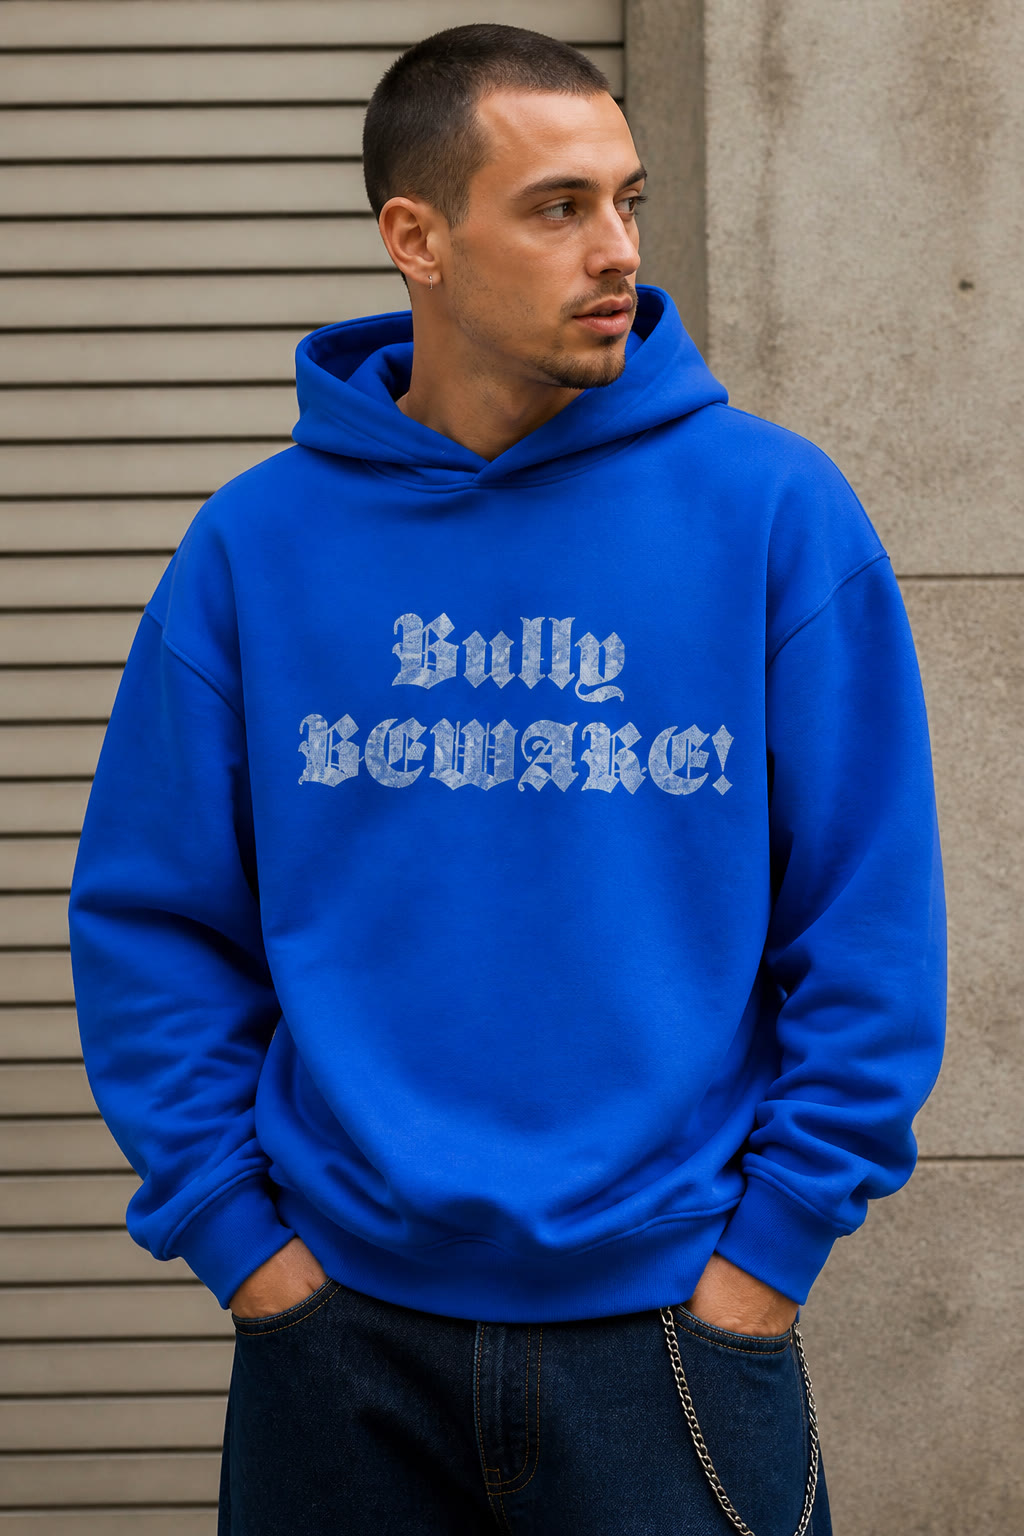
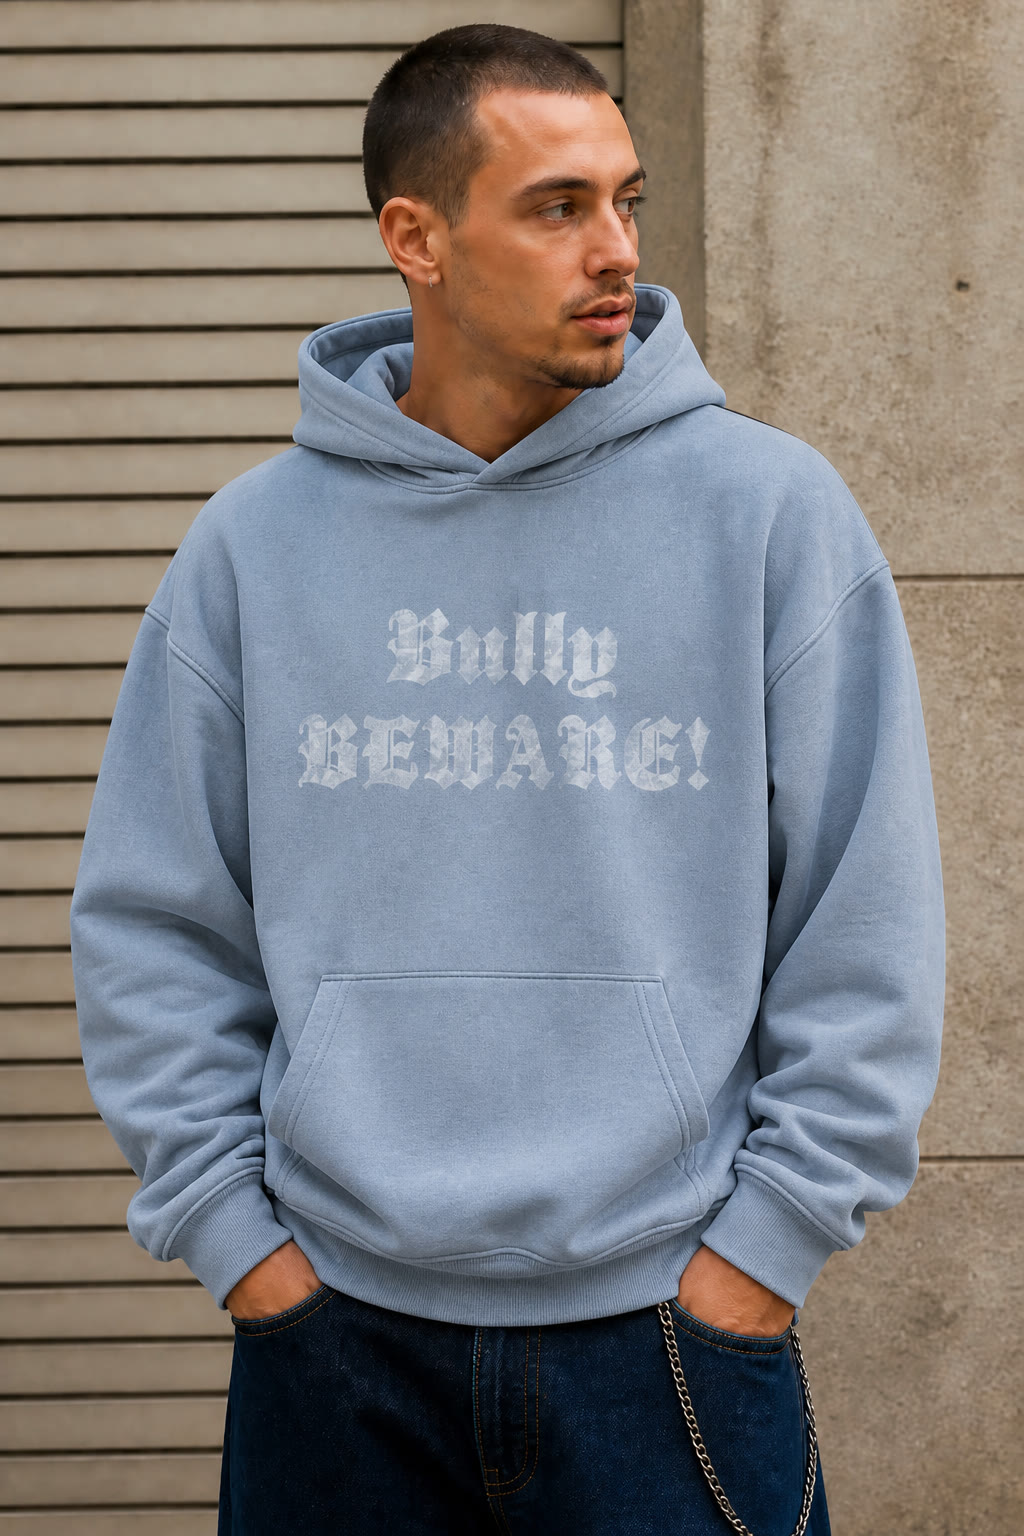
Recolor blue to dust blue and add pink colorways
All five pieces now wear a muted steel blue matched to the
swatch, plus a dusty pink with the same Beware print and Mark
embroidery.

diff --git a/js/site-config.js b/js/site-config.js
@@ -8,7 +8,8 @@
 (function () {
   const COLORWAYS = [
     { name: 'Beige', slug: 'beige', hex: '#d4c4a8' },
-    { name: 'Electric Blue', slug: 'electric-blue', hex: '#1560ff' },
+    { name: 'Dust Blue', slug: 'electric-blue', hex: '#9bb1c9' },
+    { name: 'Pink', slug: 'pink', hex: '#e5b3c5' },
     { name: 'Black', slug: 'black', hex: '#111111' },
     { name: 'Army Green', slug: 'army-green', hex: '#4a5d23' }
   ];
@@ -51,7 +52,7 @@
       body: [
         'The Beware line is loud on purpose: Old English type on the chest — “Bully BEWARE!” — and “Never-mind the dog, beware the owner” on the back of the hood.',
         'The Mark line is the other temperature: a small embroidered exotic bulldog on the left chest, no slogan. Same stance. Quieter.',
-        'Every piece runs in four colorways — beige, electric blue, black, and army green — cut oversized. Checkout is not live yet; join the list if you want a size.'
+        'Every piece runs in five colorways — beige, dust blue, pink, black, and army green — cut oversized. Checkout is not live yet; join the list if you want a size.'
       ],
       image: worn('mark-tee', 'beige'),
       fit: 'cover'
@@ -60,17 +61,17 @@
       {
         id: 'graphic',
         name: 'Beware',
-        tagline: 'Gothic print. Four colorways.'
+        tagline: 'Gothic print. Five colorways.'
       },
       {
         id: 'mark',
         name: 'The Mark',
-        tagline: 'Small embroidered bully. Four colorways.'
+        tagline: 'Small embroidered bully. Five colorways.'
       },
       {
         id: 'accessories',
         name: 'Accessories',
-        tagline: 'The mark, off the chest. Four colorways.'
+        tagline: 'The mark, off the chest. Five colorways.'
       }
     ],
     products: [
@@ -81,7 +82,7 @@
         price: 128,
         sizes: ['S', 'M', 'L', 'XL', 'XXL'],
         colors: wornColors('beware-hood'),
-        description: 'Oversized heavyweight pullover. Front: “Bully BEWARE!” in distressed blackletter. Back: “Never-mind the dog, beware the owner.” Drop shoulder, thick hood, rib that holds. Beige, electric blue, black, army green.',
+        description: 'Oversized heavyweight pullover. Front: “Bully BEWARE!” in distressed blackletter. Back: “Never-mind the dog, beware the owner.” Drop shoulder, thick hood, rib that holds. Beige, dust blue, pink, black, army green.',
         image: worn('beware-hood', 'black'),
         fit: 'cover',
         featured: true
@@ -93,7 +94,7 @@
         price: 54,
         sizes: ['S', 'M', 'L', 'XL', 'XXL'],
         colors: wornColors('beware-tee'),
-        description: 'Heavyweight oversized tee with the same chest print as the hood — “Bully BEWARE!” in distressed gothic type. Beige, electric blue, black, army green.',
+        description: 'Heavyweight oversized tee with the same chest print as the hood — “Bully BEWARE!” in distressed gothic type. Beige, dust blue, pink, black, army green.',
         image: worn('beware-tee', 'electric-blue'),
         fit: 'cover',
         featured: true
@@ -105,7 +106,7 @@
         price: 54,
         sizes: ['S', 'M', 'L', 'XL', 'XXL'],
         colors: wornColors('mark-tee'),
-        description: 'Heavyweight crew. Small embroidered exotic bulldog on the left chest. No slogan. The quiet half of the drop. Beige, electric blue, black, army green.',
+        description: 'Heavyweight crew. Small embroidered exotic bulldog on the left chest. No slogan. The quiet half of the drop. Beige, dust blue, pink, black, army green.',
         image: worn('mark-tee', 'beige'),
         fit: 'cover',
         featured: true
@@ -117,7 +118,7 @@
         price: 118,
         sizes: ['S', 'M', 'L', 'XL', 'XXL'],
         colors: wornColors('mark-hood'),
-        description: 'Oversized hoodie. No chest slogan — just the embroidered mark on the left. Beige, electric blue, and black are long sleeve; army green is short sleeve.',
+        description: 'Oversized hoodie. No chest slogan — just the embroidered mark on the left. Beige, dust blue, pink, and black are long sleeve; army green is short sleeve.',
         image: worn('mark-hood', 'army-green'),
         fit: 'cover',
         featured: true
@@ -129,7 +130,7 @@
         price: 38,
         sizes: ['One size'],
         colors: wornColors('mark-cap'),
-        description: 'Structured cap. Embroidered exotic bulldog on the front panel. Beige, electric blue, black, army green.',
+        description: 'Structured cap. Embroidered exotic bulldog on the front panel. Beige, dust blue, pink, black, army green.',
         image: worn('mark-cap', 'black'),
         fit: 'cover',
         featured: false
@@ -146,7 +147,7 @@
       hours: 'Drop inquiries answered within two business days.'
     },
     seo: {
-      description: 'BVLLY — clothing drawn from the exotic bully. Oversized streetwear in beige, electric blue, black, and army green. Gothic Beware prints and embroidered marks.',
+      description: 'BVLLY — clothing drawn from the exotic bully. Oversized streetwear in beige, dust blue, pink, black, and army green. Gothic Beware prints and embroidered marks.',
       ogImage: 'images/og.jpg'
     }
   };

diff --git a/index.html b/index.html
@@ -11,7 +11,7 @@
   <meta name="description" content="BVLLY — clothing drawn from the exotic bully. Oversized streetwear, gothic Beware prints, and embroidered marks.">
   <meta property="og:type" content="website">
   <meta property="og:title" content="BVLLY">
-  <meta property="og:description" content="Streetwear drawn from the exotic bully. Oversized heavyweight pieces in beige, electric blue, black, and army green.">
+  <meta property="og:description" content="Streetwear drawn from the exotic bully. Oversized heavyweight pieces in beige, dust blue, pink, black, and army green.">
   <meta property="og:url" content="https://jimmythegod100.github.io/bvlly/">
   <meta property="og:image" content="https://jimmythegod100.github.io/bvlly/images/og.jpg">
   <meta property="og:image:width" content="1200">
@@ -35,7 +35,7 @@
         <div class="section-head">
           <div>
             <h2 class="section-title">Featured pieces</h2>
-            <p class="section-intro">Gothic print and the embroidered mark. Each piece in beige, electric blue, black, and army green — shown on body.</p>
+            <p class="section-intro">Gothic print and the embroidered mark. Each piece in beige, dust blue, pink, black, and army green — shown on body.</p>
           </div>
           <a class="section-link" href="shop.html">Full catalog →</a>
         </div>
@@ -70,7 +70,7 @@
           </article>
           <article>
             <h3>The Mark</h3>
-            <p>A small embroidered exotic bulldog. Left chest. No slogan. Beige, electric blue, black, army green.</p>
+            <p>A small embroidered exotic bulldog. Left chest. No slogan. Beige, dust blue, pink, black, army green.</p>
           </article>
         </div>
       </div>

diff --git a/js/catalog.js b/js/catalog.js
@@ -122,7 +122,7 @@
             <h3>${c.name}</h3>
             <p>${c.tagline}</p>
           </div>
-          <span class="product-collection">${count} pieces · 4 colors</span>
+          <span class="product-collection">${count} pieces · 5 colors</span>
         </a>`;
     }).join('');
   }
@@ -328,7 +328,7 @@
 
     const colorSelect = document.querySelector('[name="color"]');
     if (colorSelect) {
-      const colors = ['', 'Beige', 'Electric Blue', 'Black', 'Army Green'];
+      const colors = ['', 'Beige', 'Dust Blue', 'Pink', 'Black', 'Army Green'];
       colorSelect.innerHTML = colors.map((c) => {
         const label = c || 'Not sure yet';
         const selected = c && c.toLowerCase() === color.toLowerCase() ? 'selected' : '';

diff --git a/css/main.css b/css/main.css
@@ -418,7 +418,7 @@ a:hover { text-decoration: underline; text-underline-offset: 0.18em; }
 
 .thumbs {
   display: grid;
-  grid-template-columns: repeat(4, 1fr);
+  grid-template-columns: repeat(5, 1fr);
   gap: 0.4rem;
   margin-top: 0.5rem;
 }
@@ -473,10 +473,16 @@ a:hover { text-decoration: underline; text-underline-offset: 0.18em; }
   border-color: #c4b496;
 }
 
-.color-chip[data-tone="Electric Blue"] {
-  background: #1560ff;
-  color: #fff;
-  border-color: #3d7aff;
+.color-chip[data-tone="Dust Blue"] {
+  background: #9bb1c9;
+  color: #111;
+  border-color: #7f96ae;
+}
+
+.color-chip[data-tone="Pink"] {
+  background: #e5b3c5;
+  color: #111;
+  border-color: #d49aaf;
 }
 
 .color-chip[data-tone="Black"] {

diff --git a/about.html b/about.html
@@ -18,7 +18,7 @@
     <div class="page-header">
       <div class="container">
         <h1>About BVLLY</h1>
-        <p>A clothing label drawn from the exotic bully. Gothic print and a small embroidered mark, in four colorways.</p>
+        <p>A clothing label drawn from the exotic bully. Gothic print and a small embroidered mark, in five colorways.</p>
       </div>
     </div>
 

diff --git a/shop.html b/shop.html
@@ -18,7 +18,7 @@
     <div class="page-header">
       <div class="container">
         <h1 data-shop-heading>Shop</h1>
-        <p>Beware hood and tee. Mark tee, hood, and cap. Four colorways each, photographed on a person.</p>
+        <p>Beware hood and tee. Mark tee, hood, and cap. Five colorways each, photographed on a person.</p>
       </div>
     </div>
 

diff --git a/collections.html b/collections.html
@@ -18,7 +18,7 @@
     <div class="page-header">
       <div class="container">
         <h1>Collections</h1>
-        <p>Beware. The Mark. Accessories. Four colorways on every piece.</p>
+        <p>Beware. The Mark. Accessories. Five colorways on every piece.</p>
       </div>
     </div>
 

diff --git a/README.md b/README.md
@@ -2,7 +2,7 @@
 
 Static catalog for **BVLLY** — a clothing label whose stance comes from the exotic bully.
 
-Two languages in the drop: gothic **Beware** prints and the quiet embroidered **Mark**. Every piece has four colorways — beige, electric blue, black, army green — photographed on a person.
+Two languages in the drop: gothic **Beware** prints and the quiet embroidered **Mark**. Every piece has five colorways — beige, dust blue, pink, black, army green — photographed on a person.
 
 ## Live site (GitHub Pages)
 
@@ -37,7 +37,7 @@ python3 dev-server.py
 - Shop with collection filters
 - Product pages (size selection, color, notify-me)
 - About, contact / waitlist, privacy
-- Five pieces in `js/site-config.js`, each in four colorways
+- Five pieces in `js/site-config.js`, each in five colorways
 
 Checkout is not live. Waitlist uses FormSubmit to `hello@bvlly.com` (placeholder inbox).
 

diff --git a/CHECKLIST.md b/CHECKLIST.md
@@ -6,7 +6,7 @@ Draft catalog. Revisit when a domain and inbox are locked.
 
 - [x] Brand name BVLLY in header, footer, titles
 - [x] Catalog SKUs and prices in `js/site-config.js`
-- [x] On-body lookbook photos in four colorways
+- [x] On-body lookbook photos in five colorways
 - [ ] Logo file if a mark exists beyond the letterspaced wordmark
 - [ ] Confirm `hello@bvlly.com` is the real inbox
 - [ ] Instagram URL

diff --git a/images/products/README.md b/images/products/README.md
@@ -2,7 +2,7 @@
 
 On-body lookbook shots. Shop cards, product pages, and the hero use these — never empty-garment studio mocks as the preview.
 
-Four colorways per piece: **beige**, **electric blue**, **black**, **army green**.
+Five colorways per piece: **beige**, **dust blue**, **pink**, **black**, **army green**.
 
 | File pattern | Piece |
 |--------------|--------|

diff --git a/CLIENT-BRIEF.md b/CLIENT-BRIEF.md
@@ -64,7 +64,7 @@ What should the website **make visitors do**?
 | **Accent** | Tan `#b8956a` |
 | **Logo** | Letterspaced **B V L L Y** |
 | **Display type** | UnifrakturMaguntia (gothic) |
-| **Photos** | On-body lookbook in beige, electric blue, black, and army green |
+| **Photos** | On-body lookbook in beige, dust blue, pink, black, and army green |
 
 ---
 
